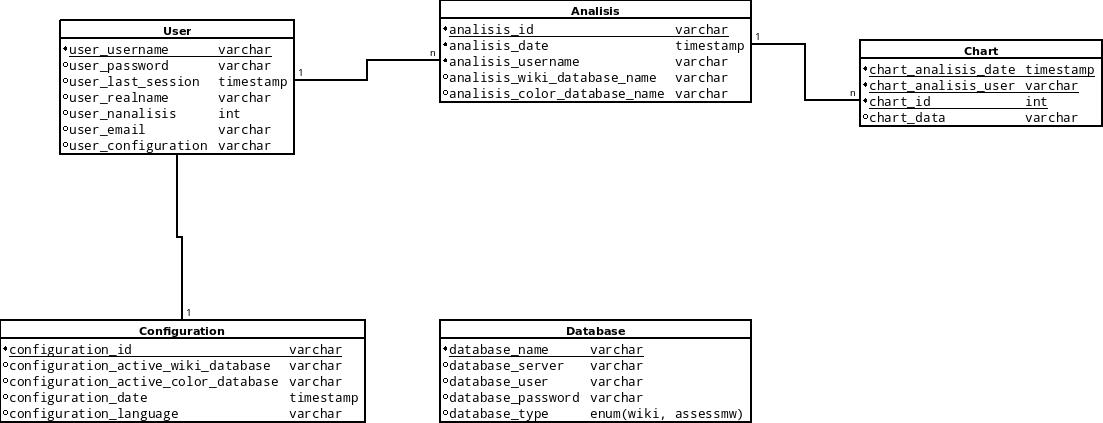
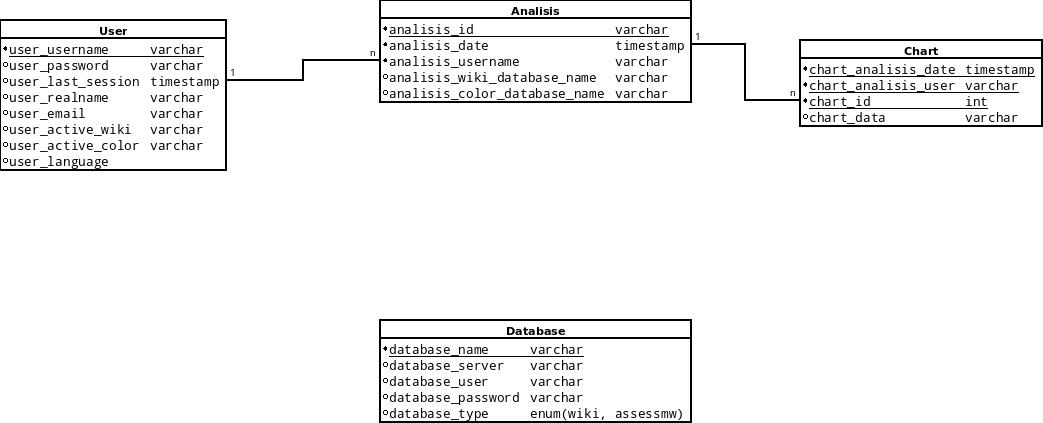
Nueva vista de error. Eliminados modelos de configuración y simplificada la base de datos principal. Modelo de gestion de usuarios terminado.
git-svn-id: https://forja.rediris.es/svn/cleverfigures@15 a053ac88-d4ad-4f58-a43f-47ca826c7790

diff --git a/application/models/user_model.php b/application/models/user_model.php
@@ -2,49 +2,129 @@
 class User_model extends CI_Model{
 
 	//ATTIRBUTES
-	private $username;
-	private $password;
-	private $last_session;
-	private $realname;
-	private $nanalisis;
-	private $email;
-	private $configuration;
+	private $user_username;
+	private $user_password;
+	private $user_last_session;
+	private $user_realname;
+	private $user_email;
+	private $user_active_wiki;
+	private $user_active_color;
+	private $user_language;
 	
 	//METHODS
+	//constructor
    	function Users_model(){
    	   	parent::__construct();
    	   	$this->load->helper('date');
    	   	
-   	   	$username = 'default';
-   	   	$password = 'default';
-		$last_session = 0;
-		$realname = 'default';
-		$nanalisis = 0;
-		$email = 'default';
-		$configuration = 'default';
+   	   	$user_username = 'default';
+   	   	$user_password = 'default';
+		$user_last_session = 0;
+		$user_realname = 'default';
+		$user_email = 'default';
+		$user_active_wiki = 'default';
+		$user_active_color = 'default';
+		$user_language = 'default';
    	}
    	
-   	function set_user_data($id, $name, $pass, 0, $email_address){
-   		$this->load->model('Configuration_model');
-   		$this->username = $id;
-   		$this->password = $pass;
-   		$this->last_session = now();
-   		$this->realname = $name;
-   		$this->nanalisis = 0;
-   		$this->email = $email_address;
-   		$this->configuration = $id;
-   		
-   		$conf = new Configuration_model();
-   		$conf->set_configuration_language('english');
-   		$conf->set_configuration_date(now());
-   		$conf->set_wiki_database();
-   		$conf->set_color_database();
-   		
+   	//reading methods
+   	function username(){return $this->user_username;}
+   	function password(){return $this->user_password;}
+   	function last_session(){return $this->user_last_session;}
+   	function realname(){return $this->user_realname;}
+   	function email(){return $this->user_email;}
+   	function active_wiki(){return $this->user_active_wiki;}
+   	function active_color(){return $this->user_active_color;}
+   	function language(){return $this->user_language;}
+   	
+   	//writing methods
+   	function set_user_data($id, $name, $pass, $email_address, $user_wiki, $user_color, $lang){
+   		$this->user_username = $id;
+   		$this->user_password = $pass;
+   		$this->user_last_session = now();
+   		$this->user_realname = $name;
+   		$this->user_email = $email_address;
+   		$this->user_active_wiki = $user_wiki;
+   		$this->user_active_color = $user_color;
+   		$this->user_language = $lang;
    	}
-   	function save_user(){}
-   	function save_last_session(){}
-   	function login(){}
-   	function delete_user(){}
+   	
+   	function save_last_session(){
+   		$data = array('user_last_session' => now());
+		$this->db->where('user_username', $this->user_username);
+		$this->db->update('User', $data); 
+   	}
+   	
+   	function update_language($lang){
+   		$data = array('user_language' => $lang);
+		$this->db->where('user_username', $this->user_username);
+		$this->db->update('User', $data); 
+   	}
+   	
+   	function update_wiki($wiki){
+   		$data = array('user_active_wiki' => $wiki);
+		$this->db->where('user_username', $this->user_username);
+		$this->db->update('User', $data); 
+   	}
+   	
+   	function update_color($color){
+   		$data = array('user_active_color' => $color);
+		$this->db->where('user_username', $this->user_username);
+		$this->db->update('User', $data); 
+   	}
+   	
+   	//login methods
+   	function login(){
+   		$this -> db -> select('user_username') 
+      		  -> from('User') 
+      		  -> where('user_username = ' . "'" . $this->user_username . "'") 
+      		  -> where('user_password = ' . "'" . $this->user_password . "'") 
+      		  -> limit(1);
+   
+      		$this->db->flush_cache();
+      		$query = $this -> db -> get();
+       
+      		if($query -> num_rows() == 1){
+      			foreach($query->result() as $row) 
+        			$sess_array = array('user_username' => $row -> user_username); 
+            		$this -> session -> set_userdata('logged_in', $sess_array);
+            		return true;
+      		}
+      		else
+         		return false;
+   	}
+   	
+   	//save & delete methods
+   	function save_user(){
+   		$check = $this->db->query("select * from User where user_username == $this->user_username");
+   		if($check->result()->num_rows() != 0)
+   			return false;
+   		else{
+   			$sql = array('user_username' => "$this->user_username",
+   					'user_password' => "$this->user_password",
+   					'user_last_session' => "$this->user_last_session",
+   					'user_realname' => "$this->user_realname",
+   					'user_email' => "$this->user_email",
+   					'user_configuration' => "$this->user_configuration"
+   				);
+	
+			$this->db->insert('User', $sql);
+		
+			if($this->db->affected_rows() != 1) 
+				return false;
+			else 
+				return true;
+		}
+   	}
+   	
+   	function delete_user(){
+   		$check = $this->db->query("select * from User where user_username == $this->user_username");
+   		if($check->result()->num_rows() == 0)
+   			return false;
+   		else
+   		 	$this->db->delete('User', array('user_username' => $this->user_username)); 
+   		 	return true;
+   	}
 }
 
 ?>  

diff --git a/application/models/database_model.php b/application/models/database_model.php
@@ -29,6 +29,7 @@ class Databases_model extends CI_Model{
 	//constructor
    	function Database_model(){
    	   	parent::__construct();
+   	   	
 		$database_server = 'default';
    	   	$database_name = 'default';
 		$database_user = 'default';
@@ -38,14 +39,14 @@ class Databases_model extends CI_Model{
 		$database_link = 0;
    	}
    	
-   	//reading functions
+   	//reading methods
    	function name(){return $this->database_name;}
    	function server(){return $this->database_server;}
    	function user(){return $this->database_user;}
    	function password(){return $this->database_password;}
    	function type(){return $this->database_type;}
    	
-   	//writing functions
+   	//writing methods
    	function set_connection_data($server, $name, $user, $password, $type){
    		$this->database_server=$server;
    		$this->database_name=$name;
@@ -55,7 +56,7 @@ class Databases_model extends CI_Model{
    		$this->database_complete=TRUE;
    	}
    	
-   	//connection functions
+   	//connection methods
    	function connect(){
    		if($this->database_complete){
    			$dba['hostname'] = $this->database_server;
@@ -89,7 +90,7 @@ class Databases_model extends CI_Model{
    			return FALSE;
    	}
    	
-   	//loading, adding and deleting databases
+   	//loading, adding and deleting databases methods
    	function load_database_connection_data($name, $server){
    		$query = $this->db->query("select * from Database where database_name == $name and database_server == $server");
    		if($query->result()->num_rows() != 0)

diff --git a/application/views/content/error_view.php b/application/views/content/error_view.php
@@ -1,0 +1,7 @@
+<!--
+	INPUT: $error_string
+	OUTPUT:
+--> 
+
+<?="<h3>ERROR</h3></br>"?>
+<?="$error_string"?>
